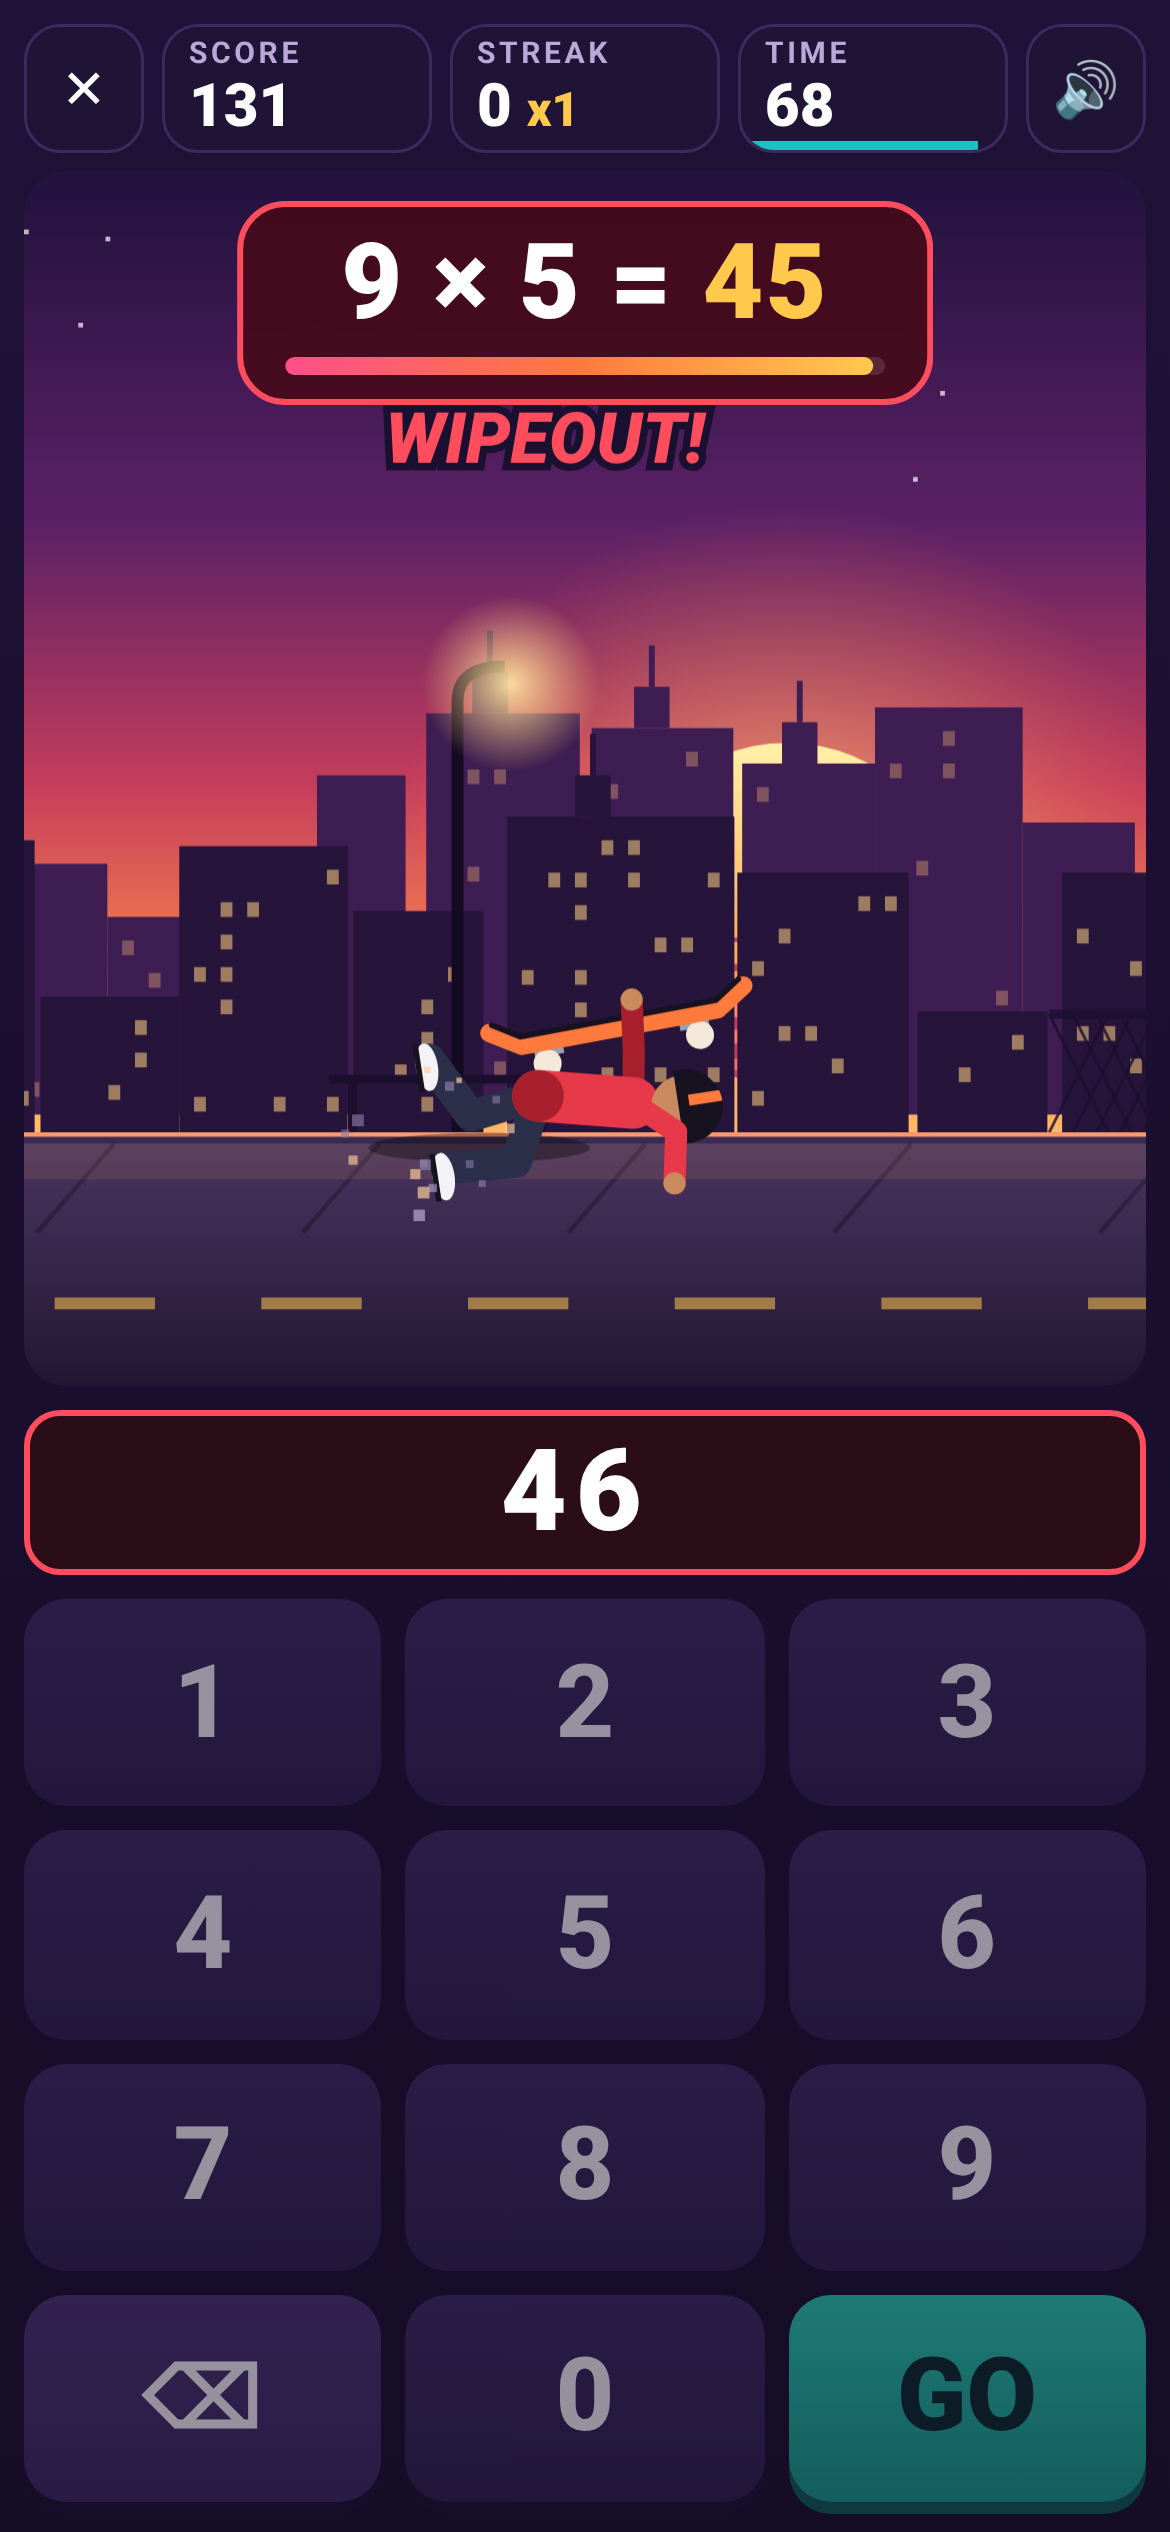
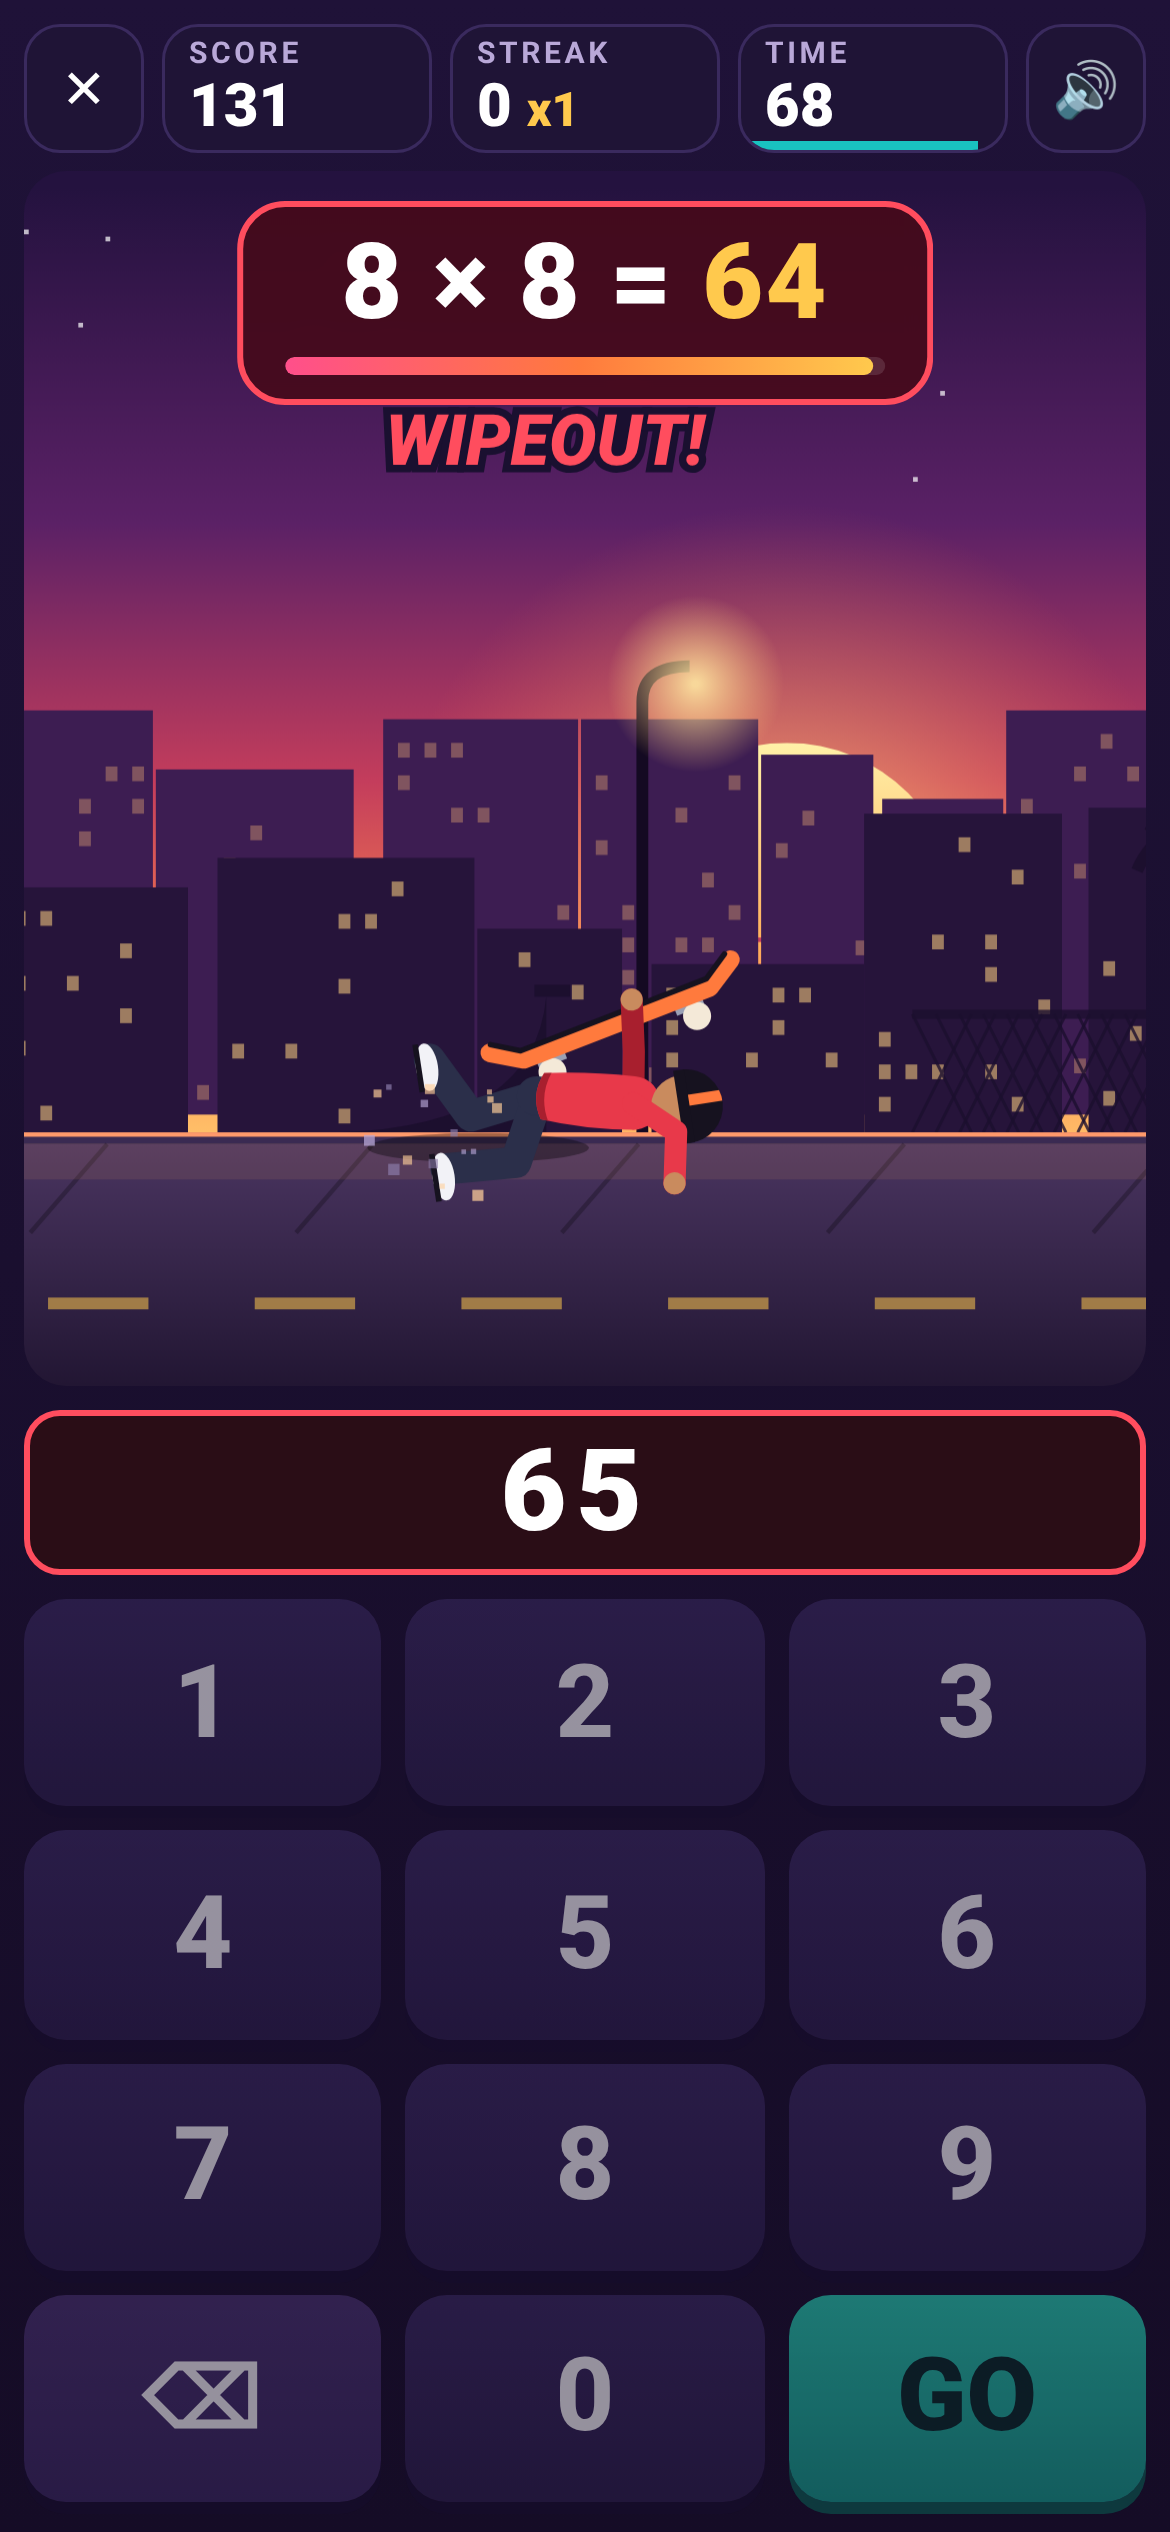
Smooth rider torso (tapered shirt, curved hem, no hip ball); add Spike Crown helmet; cache-bust v=6

diff --git a/game.js b/game.js
@@ -62,7 +62,7 @@
   //   id (unique), cat (a GEAR_CATS id), name, price (coins; 0 = free starter, owned by default),
   //   optional unlock (an ACHIEVEMENTS id), plus the look fields for that category:
   //   shirt:   color, dark, [stripe], [glow]
-  //   helmet:  color, pattern ('none'|'stripe'|'double'|'bolt'|'star'|'checker'|'flames'|'chrome'), [accent]
+  //   helmet:  color, pattern ('none'|'stripe'|'double'|'bolt'|'star'|'checker'|'flames'|'chrome'|'spikes'), [accent]
   //   board / scooter: deck, wheel, [pattern ('none'|'stripe'|'split'|'checker'|'flames'|'stars')], [accent], [wheelGlow], [bar] (scooter)
   // A category with `rider` only applies to that ride (its rider has gearCat = that category id).
   // ======================================================================
@@ -90,6 +90,7 @@
     { id: 'helm_bolt', cat: 'helmet', name: 'Lightning', price: 90, color: '#19c3c0', pattern: 'bolt', accent: '#ffe04d' },
     { id: 'helm_checker', cat: 'helmet', name: 'Checkered', price: 120, color: '#f2f2f7', pattern: 'checker', accent: '#16121f' },
     { id: 'helm_flames', cat: 'helmet', name: 'Hot Flames', price: 150, color: '#16121f', pattern: 'flames', accent: '#ff7a3d' },
+    { id: 'helm_spikes', cat: 'helmet', name: 'Spike Crown', price: 160, color: '#23202e', pattern: 'spikes', accent: '#d5d9e6' },
     { id: 'helm_chrome', cat: 'helmet', name: 'Chrome Dome', price: 220, color: '#c9ceda', pattern: 'chrome', unlock: 'l3pb' },
     // Skateboards
     { id: 'board_classic', cat: 'board', name: 'Classic Orange', price: 0, deck: '#ff7a3d', wheel: '#f4e9d8' },
@@ -433,12 +434,8 @@
       c.fillStyle = '#f2f2f7'; c.beginPath(); c.ellipse(f[0] + 2, f[1] + 1, 6.5, 3, 0, 0, Math.PI * 2); c.fill();
       c.fillStyle = '#16121f'; c.fillRect(f[0] - 4.5, f[1] + 2.5, 13, 1.5);
     });
-    // torso (shirt)
-    if (L.glow) { c.save(); c.shadowColor = L.glow; c.shadowBlur = 12; }
-    seg(c, [hip, sh], 14, L.shirt);
-    if (L.glow) c.restore();
-    if (L.stripe) seg(c, [[hip[0] + 1, hip[1] - 2], [sh[0] + 1, sh[1] + 2]], 3, L.stripe);
-    c.fillStyle = L.shirtDark; c.beginPath(); c.arc(hip[0], hip[1], 7, 0, Math.PI * 2); c.fill();
+    // torso: tapered shirt with rounded shoulders and a curved hem over the pants (no hip ball)
+    drawTorso(c, hip, sh, L);
     // head + helmet
     c.fillStyle = '#c98b5e'; c.beginPath(); c.arc(head[0], head[1], 8.5, 0, Math.PI * 2); c.fill();
     drawHelmet(c, head[0], head[1], L);
@@ -446,6 +443,51 @@
     // front arm
     var e1 = ik(sh, hands[1], 14, 14, st.elbow[1]); seg(c, [sh, e1, hands[1]], 6, L.shirt);
     c.fillStyle = '#c98b5e'; hands.forEach(function (h) { c.beginPath(); c.arc(h[0], h[1], 3, 0, Math.PI * 2); c.fill(); });
+  }
+  function torsoPath(c, hip, sh, T) {
+    c.beginPath();
+    c.moveTo(T.hc[0] + T.n[0] * T.wh, T.hc[1] + T.n[1] * T.wh);
+    c.quadraticCurveTo(T.mid[0] + T.n[0] * (T.ws + 0.8), T.mid[1] + T.n[1] * (T.ws + 0.8), sh[0] + T.n[0] * T.ws, sh[1] + T.n[1] * T.ws);
+    c.arc(sh[0], sh[1], T.ws, Math.atan2(T.n[1], T.n[0]), Math.atan2(-T.n[1], -T.n[0]), true);   // rounded shoulders
+    c.quadraticCurveTo(T.mid[0] - T.n[0] * (T.ws + 0.4), T.mid[1] - T.n[1] * (T.ws + 0.4), T.hc[0] - T.n[0] * T.wh, T.hc[1] - T.n[1] * T.wh);
+    c.quadraticCurveTo(T.hc[0] - T.u[0] * 3.4, T.hc[1] - T.u[1] * 3.4, T.hc[0] + T.n[0] * T.wh, T.hc[1] + T.n[1] * T.wh);   // curved hem
+    c.closePath();
+  }
+  function drawTorso(c, hip, sh, L) {
+    var dx = sh[0] - hip[0], dy = sh[1] - hip[1], len = Math.hypot(dx, dy) || 1, u = [dx / len, dy / len], n = [-u[1], u[0]];
+    var T = { u: u, n: n, ws: 7.3, wh: 6.3, hc: [hip[0] + u[0] * 1.2, hip[1] + u[1] * 1.2] };
+    T.mid = [T.hc[0] + dx * 0.45, T.hc[1] + dy * 0.45];
+    // pants seat: one smooth rounded block joining both thighs under the hem (same color as the legs)
+    seg(c, [[hip[0] - u[0] * 0.5, hip[1] - u[1] * 0.5], [hip[0] + u[0] * 5, hip[1] + u[1] * 5]], 10.5, '#2b2f4a');
+    c.save();
+    if (L.glow) { c.shadowColor = L.glow; c.shadowBlur = 12; }
+    torsoPath(c, hip, sh, T); c.fillStyle = L.shirt; c.fill();
+    c.restore();
+    c.save(); torsoPath(c, hip, sh, T); c.clip();
+    if (L.stripe) seg(c, [[T.hc[0] - u[0] * 4 + n[0] * 0.6, T.hc[1] - u[1] * 4 + n[1] * 0.6], [sh[0] + u[0] * 9 + n[0] * 0.6, sh[1] + u[1] * 9 + n[1] * 0.6]], 3, L.stripe);
+    // waistband / hem band in the darker shirt shade, following the curved hem
+    c.strokeStyle = L.shirtDark; c.lineWidth = 2.6; c.lineCap = 'butt'; c.beginPath();
+    var b0 = [T.hc[0] + u[0] * 0.9, T.hc[1] + u[1] * 0.9];
+    c.moveTo(b0[0] + n[0] * (T.wh + 1), b0[1] + n[1] * (T.wh + 1));
+    c.quadraticCurveTo(b0[0] - u[0] * 3.4, b0[1] - u[1] * 3.4, b0[0] - n[0] * (T.wh + 1), b0[1] - n[1] * (T.wh + 1));
+    c.stroke();
+    c.restore();
+  }
+  // mohawk row of short, round-tipped metal spikes along the top of the helmet (side view)
+  function drawSpikes(c, cx, cy, R, col) {
+    var N = 6, a0 = Math.PI * 1.2, a1 = Math.PI * 1.8, half = 0.075 * Math.PI;
+    c.save(); c.lineJoin = 'round'; c.lineCap = 'round';
+    for (var i = 0; i < N; i++) {
+      var a = a0 + (a1 - a0) * i / (N - 1), hgt = 4.2 + Math.sin(Math.PI * i / (N - 1)) * 1.6;
+      var p1 = [cx + Math.cos(a - half) * (R - 0.6), cy + Math.sin(a - half) * (R - 0.6)], p2 = [cx + Math.cos(a + half) * (R - 0.6), cy + Math.sin(a + half) * (R - 0.6)];
+      var tip = [cx + Math.cos(a) * (R + hgt), cy + Math.sin(a) * (R + hgt)];
+      c.beginPath(); c.moveTo(p1[0], p1[1]); c.lineTo(tip[0], tip[1]); c.lineTo(p2[0], p2[1]); c.closePath();
+      c.fillStyle = col; c.fill(); c.strokeStyle = col; c.lineWidth = 1.6; c.stroke();   // stroke rounds the tip
+      c.strokeStyle = 'rgba(255,255,255,0.85)'; c.lineWidth = 0.7; c.beginPath();       // shine
+      c.moveTo((p1[0] * 2 + tip[0]) / 3, (p1[1] * 2 + tip[1]) / 3); c.lineTo((p1[0] + tip[0] * 2) / 3 + (p2[0] - p1[0]) * 0.1, (p1[1] + tip[1] * 2) / 3 + (p2[1] - p1[1]) * 0.1); c.stroke();
+    }
+    c.fillStyle = '#8a90a8'; c.beginPath(); c.arc(cx, cy, R - 0.2, a0 - half, a1 + half); c.arc(cx, cy, R - 1.8, a1 + half, a0 - half, true); c.closePath(); c.fill();  // metal base strip
+    c.restore();
   }
   function starPath(c, x, y, R) { c.beginPath(); for (var i = 0; i < 10; i++) { var a = -Math.PI / 2 + i * Math.PI / 5, rr = i % 2 ? R * 0.45 : R; c.lineTo(x + Math.cos(a) * rr, y + Math.sin(a) * rr); } c.closePath(); }
   function drawHelmet(c, hx, hy, L) {
@@ -470,6 +512,7 @@
     }
     else if (pat === 'chrome') { c.strokeStyle = 'rgba(255,255,255,0.95)'; c.lineWidth = 1.6; c.beginPath(); c.arc(cx - 1, cy - 1, 6.5, Math.PI * 1.15, Math.PI * 1.55); c.stroke(); }
     c.restore();
+    if (pat === 'spikes') drawSpikes(c, cx, cy, R, ac);
     c.fillStyle = pat === 'chrome' ? '#8a90a8' : L.helmet; c.fillRect(cx - 10, cy - 1, 20, 3);
   }
   function deckPattern(c, pat, ac, x0, x1, yTop, h) { // pattern on a straight deck section

diff --git a/index.html b/index.html
@@ -10,7 +10,7 @@
 <title>Times Tricks — Multiplication Street Runner</title>
 <link rel="icon" href="icon.svg" type="image/svg+xml" />
 <link rel="apple-touch-icon" href="apple-touch-icon.png" />
-<link rel="stylesheet" href="style.css?v=5" />
+<link rel="stylesheet" href="style.css?v=6" />
 </head>
 <body>
 <div id="app">
@@ -149,6 +149,6 @@
     <div class="panel small"><h2 class="endTitle">PAUSED</h2><button id="resumeBtn" class="big">RESUME ▶</button></div>
   </div>
 </div>
-<script src="game.js?v=5"></script>
+<script src="game.js?v=6"></script>
 </body>
 </html>

diff --git a/README.md b/README.md
@@ -48,7 +48,7 @@ Everything is data in `game.js`:
 
 - **New item:** add one object to `GEAR`, e.g.
   `{ id: 'shirt_orange', cat: 'shirt', name: 'Traffic Cone', price: 70, color: '#ff7a3d', dark: '#c2521f' }`.
-  Look fields per category: shirts `color, dark, stripe?, glow?`; helmets `color, pattern, accent?` (`none, stripe, double, bolt, star, checker, flames, chrome`); boards/scooters `deck, wheel, pattern?, accent?, wheelGlow?` plus `bar` for scooters (`none, stripe, split, checker, flames, stars`).
+  Look fields per category: shirts `color, dark, stripe?, glow?`; helmets `color, pattern, accent?` (`none, stripe, double, bolt, star, checker, flames, chrome, spikes`); boards/scooters `deck, wheel, pattern?, accent?, wheelGlow?` plus `bar` for scooters (`none, stripe, split, checker, flames, stars`).
 - **Lock it behind a milestone:** add `unlock: '<achievement id>'`. Achievements live in `ACHIEVEMENTS` (text + a `progress(stats)` returning `[current, goal]`).
 - **New category:** add to `GEAR_CATS`. A category with `rider: '<id>'` applies to that ride; set `gearCat` on the rider.
 - **Coin tuning:** the `COINS` object.
